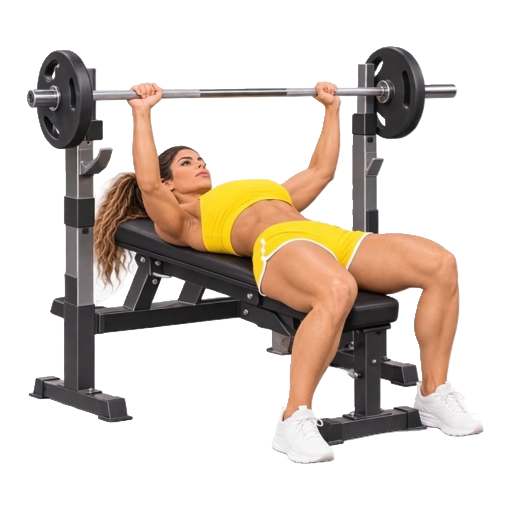
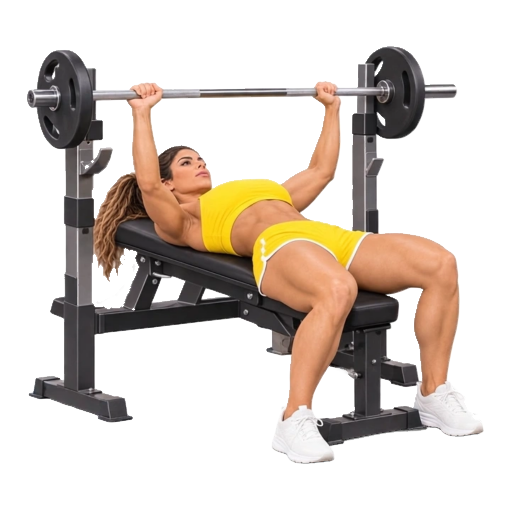
1.8.43 : restes de fond blanc retirés (shrugs barre, développé couché, fente bulgare)
Claude-Session: https://claude.ai/code/session_01D2bERS7WBZgExNoVRodtwC

Changed region(s): [[0.1562, 0.4688, 0.2812, 0.5938], [0.1562, 0.3125, 0.25, 0.4375], [0.1875, 0.5938, 0.25, 0.625]]

diff --git a/sw.js b/sw.js
@@ -4,7 +4,7 @@
 // APP_VERSION doit être incrémenté à chaque release (en même temps que
 // manifest.json) : le navigateur ne réinstalle le service worker que si
 // le contenu de ce fichier change.
-const APP_VERSION = '1.8.42';
+const APP_VERSION = '1.8.43';
 // 1.7.64 (co-auteur : Claude) : production (…/suivi-fitness/) et test (…/suivi-fitness/dev/) sont sur le même
 // domaine et partagent le stockage des caches : chaque version nomme ses caches d'après son dossier et ne
 // supprime que les siens (plus les anciens caches sans dossier, d'avant la 1.7.64).

diff --git a/CHANGELOG.md b/CHANGELOG.md
@@ -7,6 +7,14 @@ et ce projet respecte [Semantic Versioning](https://semver.org/spec/v2.0.0.html)
 
 ---
 
+## [1.8.43] - 2026-11-18
+### 🎨 Icônes : derniers restes de fond blanc retirés (co-auteur : Claude)
+- Shrugs barre : fond blanc derrière la queue de cheval et entre le bras et le short retiré (liseré du short gardé).
+- Développé couché : fond blanc dans les cheveux qui pendent du banc retiré.
+- Fente bulgare : fond blanc entre la queue de cheval et le dos retiré.
+
+---
+
 ## [1.8.42] - 2026-11-18
 ### 🎨 Icônes d'exercices : détourage refait sur tout le catalogue (co-auteur : Claude)
 - 65 icônes : l'athlète est détourée à nouveau depuis la photo d'origine par un modèle (cheveux, peau et baskets blanches nets, sans liseré clair ni reste de fond) ; cadrage et matériel inchangés.
